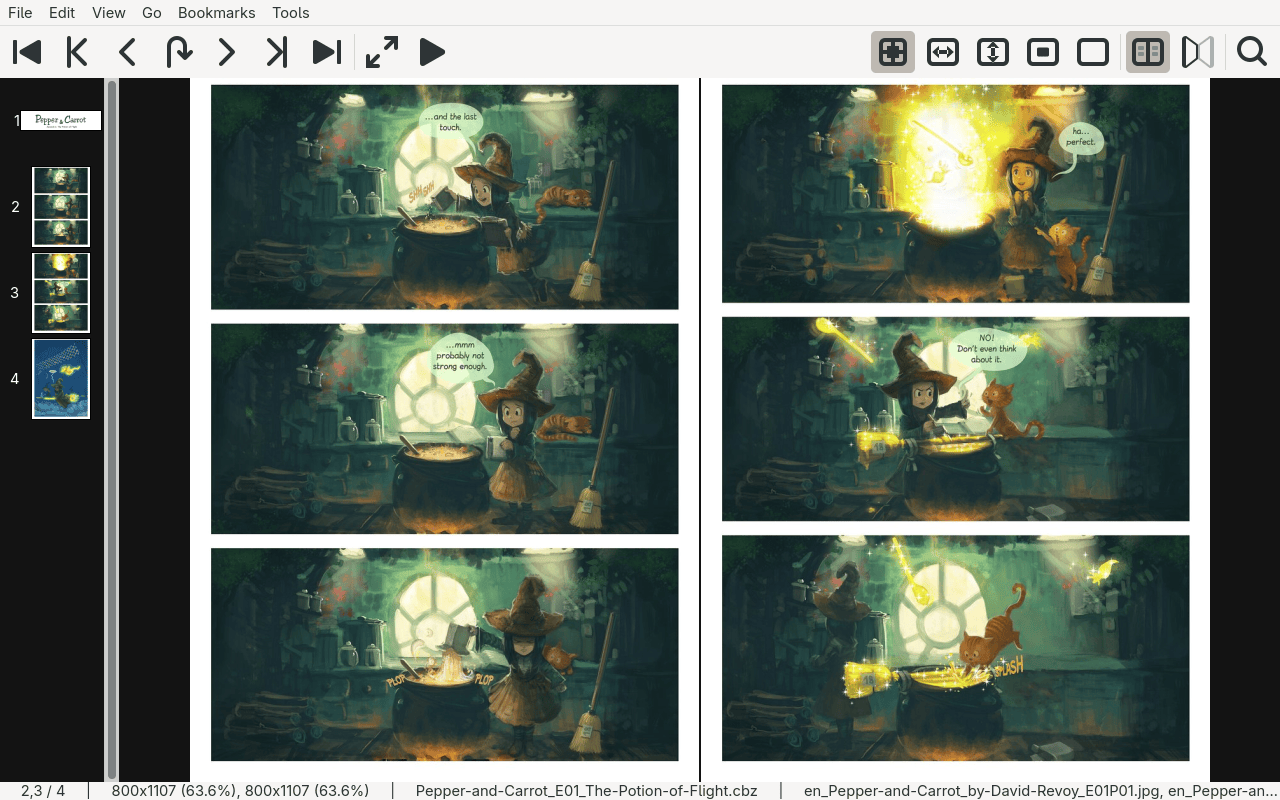
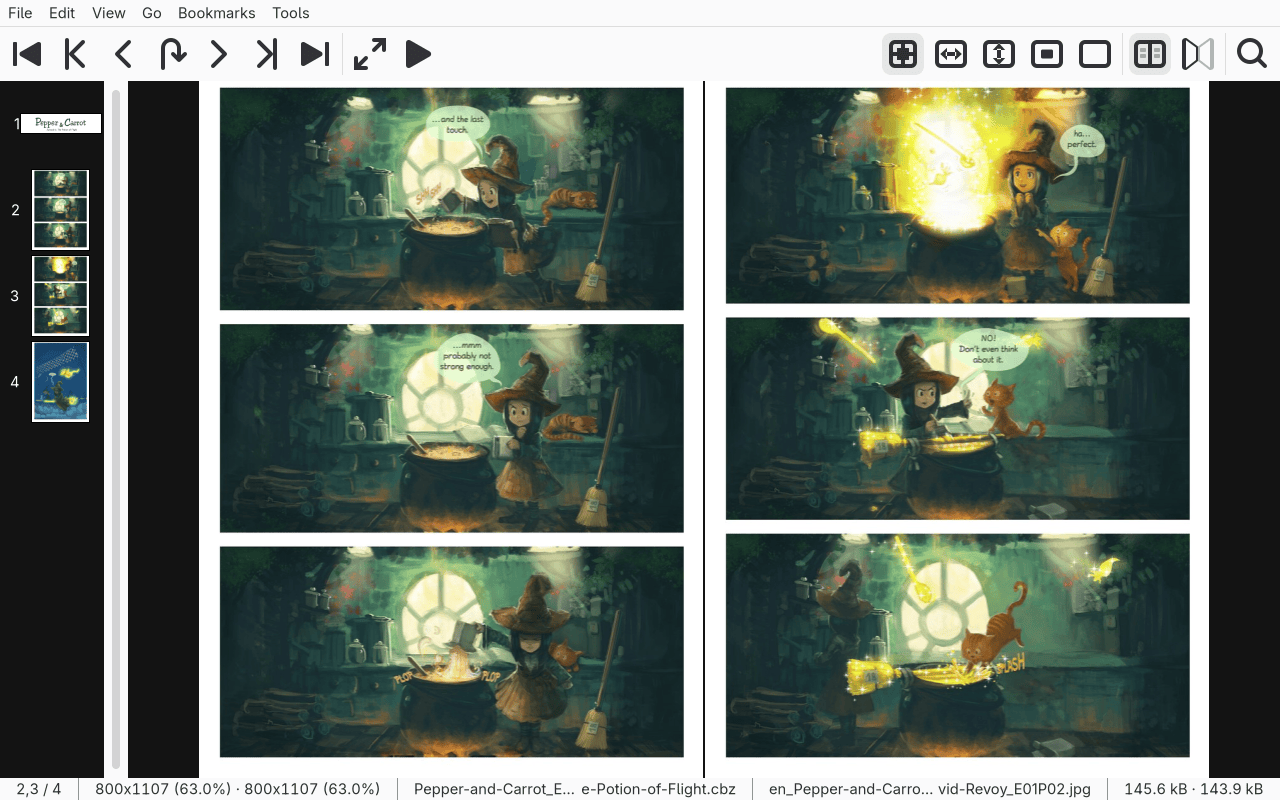
docs: The main window screenshot showed the old status bar
mcomix-mainwindow.png still showed the status bar as one line of text
with "|" between its fields and ", " between a double page's values.
Since 43a971a8, fc876084, 1ea5212f and d25518ce it has a label per
field, centred, with separator lines between them and " · " joining a
double page's values, and the file size field is among the defaults.

Regenerated under Xvfb at 1280x800 with the book in
test/files/pepper-and-carrot at pages 2-3, double page, the light
colour scheme and an English locale, then reduced with
pngquant --speed 1: 359,557 bytes (was 386,294); mean absolute channel
difference from the full-colour shot 1.37, 99th percentile 12.  The
images README says which shots are from when.

Changed region(s): [[0.0, 0.0, 1.0, 1.0], [0.625, 0.3125, 0.6562, 0.3438], [0.2188, 0.5938, 0.25, 0.625]]

diff --git a/docs/images/README.md b/docs/images/README.md
@@ -6,6 +6,6 @@ File | Shown by
 `mcomix-library.png` | [Library](../library.md)
 `mcomix-external-commands.png` | [External commands](../external-commands.md)
 
-They show MComix on GTK 4, shortly before 26.09, reduced to 256 colours.
+They show MComix on GTK 4, reduced to 256 colours. The library and the external commands are from shortly before 26.09. The main window is from after 26.09, in the light colour scheme.
 
 The pages in `mcomix-mainwindow.png`, and one of the covers in `mcomix-library.png`, are from "The Potion of Flight", episode 1 of [Pepper&Carrot](https://www.peppercarrot.com/) by David Revoy, licensed under [CC BY 4.0](https://creativecommons.org/licenses/by/4.0/) and scaled down; the book is `test/files/pepper-and-carrot`. The Reading and Library pages credit it under their screenshots. Wherever one of these images is shown on its own, as a project screenshot or in the AppStream metainfo, give the same credit with it.
